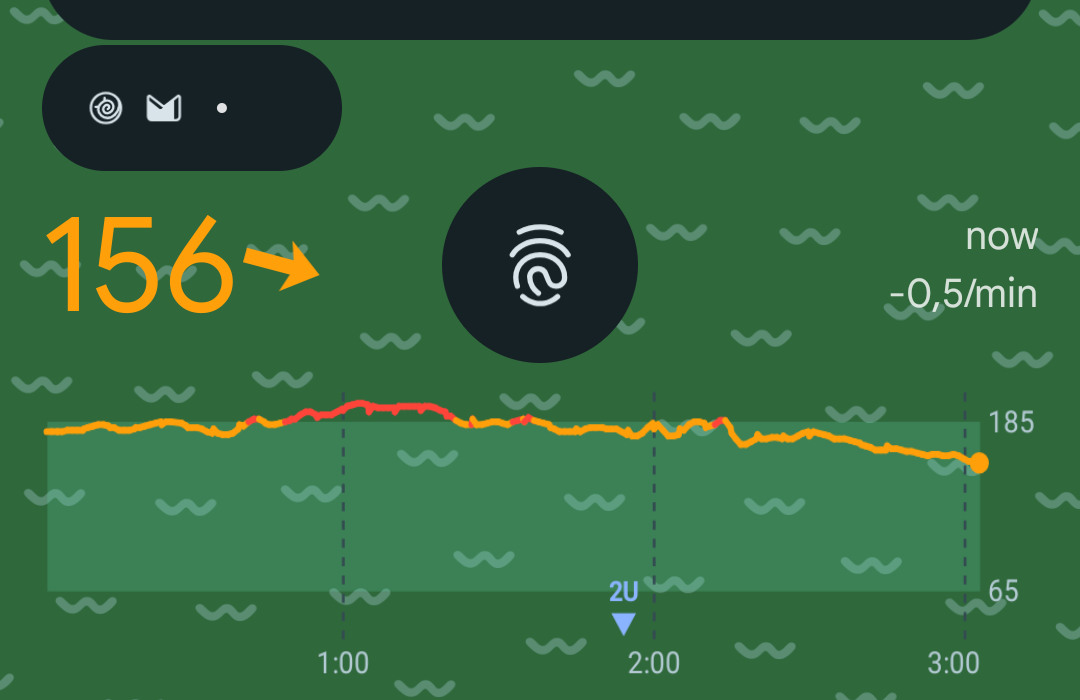
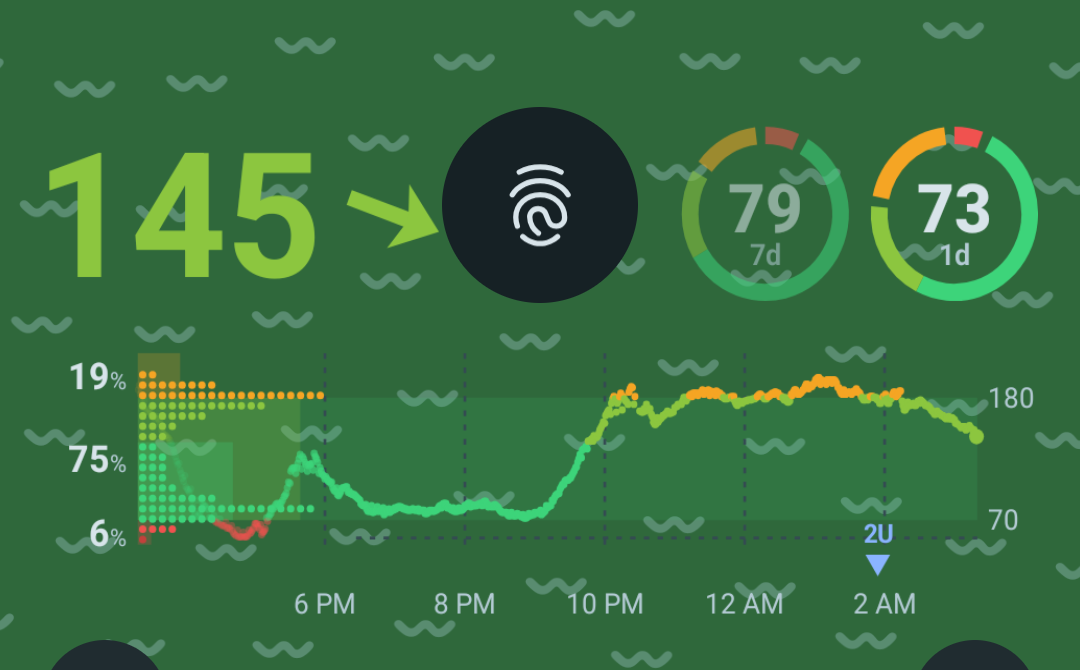
Investigation 17: report for the GlucoseCard layout and the shelf fix

diff --git a/docs/17-lockscreen-widget.md b/docs/17-lockscreen-widget.md
@@ -17,19 +17,21 @@ Sukrara as *Settings → Lock screen → Glucose on the lock screen* (on by defa
 
 ![Lock screen widget](img/17/lockscreen-widget.png)
 
-*The value is left of the fingerprint icon, age and rate are right of it, and the last 3 h graph (with treatments)
-is below. It has no card or background, so it floats on the wallpaper like the clock.*
+*Investigation 16's card, arranged around the fingerprint icon: the value and trend arrow on the left, the
+time-in-range rings (7 d, 1 d) on the right, and the chart with the distribution and treatments below. It has no
+background, so it floats on the wallpaper like the clock.*
 
 | What | How it was checked | Result |
 |---|---|---|
 | SystemUI can host our widget | `AppWidgetHost` in SystemUI's process; `bindAppWidgetIdIfAllowed` (SystemUI holds `BIND_APPWIDGET`) | `bound id 22`, `view added (id 22)`; the same id is reused after every SystemUI restart |
 | Placement from SystemUI's geometry | `AuthController.mUdfpsBounds` vs `dumpsys … AuthController` | `lock icon at Rect(441, 1666 - 639, 1864)` = `udfpsBounds=Rect(441, 1666 - 639, 1864)` |
 | Follows the lock screen | screenshots: lock screen / shade pulled down / bouncer / AOD | shown / hidden / dimmed with the lock screen / hidden |
+| Notifications don't cover it | `computeMaxKeyguardNotifications` args logged: `space=1131 shelfSpace=126` (stack top ≈ 538 → space ends at the icon's top 1666, the shelf may use 126 px more beside the icon) | before: the shelf covered the value; after (shelf must fit in `space`): 3 notifications + shelf, all above the widget |
 | Live data | Glance widget in Sukrara's normal widget pipeline | updates with every reading while the screen is on; one catch-up render on screen on |
 | Tap → treatment dialog over the lock screen | `input tap` on the value; `dumpsys activity activities` | dialog + keyboard shown; `KeyguardShowing=true … Occluded=true` (still locked); Cancel returns to the lock screen |
 | Fingerprint still unlocks | the user, then `input tap` on/next to the sensor and a 700 ms press | first build: **a finger on the sensor opened the dialog** (see below); fixed build: sensor, its column and long presses never open it |
 | Swipe up / long press still reach SystemUI | the widget sits *under* the Compose lock screen and only gets copies of taps | lock screen gestures unchanged |
-| Accessibility | `uiautomator dump` | "154", "steady", "now", "-0,4/min", "Glucose graph, last 3 hours" readable |
+| Accessibility | `uiautomator dump` | content description "Glucose 145 mg/dL, steady. Add treatment" |
 
 ![Treatment dialog over the lock screen](img/17/dialog-over-lockscreen.png)
 
@@ -51,20 +53,27 @@ works on the window root instead, in `hook/LockscreenWidgetHost.kt`:
    under-display sensor, SystemUI's `lock_icon_margin_bottom`). Bottom = top of the shortcuts
    (`keyguard_affordance_vertical_offset + keyguard_affordance_fixed_height`) − 8 dp. Sides = 16 dp, like the
    notifications. The icon's position is sent to the widget as **extra widget options**
-   (`sukrara.lockHoleLeft/Right/Bottom`, through `AppWidgetHostView.updateAppWidgetSize(extras, sizes)`), so the
-   Glance layout puts the value left of it and the age/rate right of it.
+   (`sukrara.lockHoleLeft/Right/Bottom`, through `AppWidgetHostView.updateAppWidgetSize(extras, sizes)`). The widget
+   draws one bitmap with investigation 16's pieces: `GlucoseCard` (value only) left of the icon, `TirRing`s right of
+   it, `GlucoseCard` (chart only) below, in the dark palette with a transparent background.
 4. **Follow the scene.** On every frame the window draws (`OnPreDrawListener`, so no cost while nothing moves) the
    module reads the scene interactor's transition state (`LegacySceneInteractorImpl.getTransitionState()`: `Idle` on
    `Scenes.Lockscreen` with no overlay = 1, a `Transition` from/to it = 1 − progress / progress) and sets the
    widget's alpha. The widget is hidden while the screen is off (AOD) and when the app turns the switch off.
-5. **Touches.** The lock screen keeps every gesture (swipe up to unlock, pull down the shade, long press to
+5. **Make room.** SystemUI sizes the lock screen stack in
+   `NotificationStackSizeCalculator.computeMaxKeyguardNotifications(stack, spaceForNotifications, spaceForShelf,
+   shelfHeight)`. The notifications' space ends at the lock icon's top, but the shelf (the pill with the overflow
+   icons) may hang *below* it, beside the icon, which is where our value is. While the widget is on, the hook passes
+   `spaceForNotifications − spaceForShelf`, so the shelf fits above the icon too. At worst, one more notification
+   goes into the shelf.
+6. **Touches.** The lock screen keeps every gesture (swipe up to unlock, pull down the shade, long press to
    customise). The hook on `SceneWindowRootView.dispatchTouchEvent` gives the widget a *copy* of a touch that starts
    on it. That copy is cancelled when the finger moves beyond the touch slop or stays down longer than the long-press
    timeout. Touches in the fingerprint icon's column (± 24 dp) never reach the widget.
 
 ### The fingerprint bug (fixed before the user's second test)
 
-The first build opened the treatment dialog when the user put a finger on the sensor. The filter in step 5 was
+The first build opened the treatment dialog when the user put a finger on the sensor. The filter in step 6 was
 there, but the window *also* delivered touches to the widget the normal way: `SceneWindowRootView` is a
 `FrameLayout`, and when the Compose layer on top doesn't consume a touch (empty space, the sensor), the event falls
 through to the next child, which is our view. The fix is a `GuardedView` (an `AppWidgetHostView` subclass created by
@@ -99,7 +108,8 @@ dialog shows nothing beyond what the lock screen already shows. The switch turns
 | Added | Where |
 |---|---|
 | Lock screen widget hosted by the LSPosed module, around the fingerprint icon | `hook/LockscreenWidgetHost.kt`, hooks in `hook/SystemUiHook.kt` (`hookLockscreenWidget`) |
-| Keyguard-only Glance widget with the lock icon gap | `widgets/LockscreenWidget.kt`, `res/xml/widget_lockscreen.xml` |
+| Keyguard-only Glance widget with the lock icon gap (investigation 16's value, rings and chart) | `widgets/LockscreenWidget.kt`, `res/xml/widget_lockscreen.xml` |
+| Notification shelf kept above the lock icon while the widget is on | `hook/SystemUiHook.kt` (`computeMaxKeyguardNotifications`) |
 | Switch *Settings → Lock screen → Glucose on the lock screen* (`lockWidget`, default on; DebugReceiver `--ez lockWidget`) | `features/Features.kt`, `ui/WearerScreens.kt`, sent to SystemUI with the status-bar broadcast (`status/RootStatusBar.kt`) |
 | Treatment dialog over the lock screen (manifest `showWhenLocked`; "Open Sukrara" asks to unlock) | `AndroidManifest.xml`, `ui/QuickTreatmentActivity.kt` |
 | Quick Settings tile "Add treatment" with the current value | `ui/TreatmentTile.kt` |
@@ -109,24 +119,23 @@ dialog shows nothing beyond what the lock screen already shows. The switch turns
 | Drawing our own view in SystemUI (like the status-bar hook) | Hosting the real widget reuses the widget pipeline, Glance layout and tap handling, and stays in sync with the home-screen widgets |
 | Putting the widget *above* the Compose lock screen | It would cover the fingerprint icon and take swipe gestures |
 | Delivering touches through the normal view tree | Taps on the fingerprint sensor reached the widget (the bug above) |
-| Shrinking the notification stack to make room | Not needed: SystemUI already stops the stack above the fingerprint icon |
+| Moving the widget down when the notification shelf hangs beside the lock icon | No room below (shortcuts); making the shelf fit above the icon is cleaner (step 5) |
 | Lock screen wallpaper, Notes-role shortcut | Not interactive / takes over the user's wallpaper or notes app (table above) |
 
 ## Code
 
 - `spikes/showcase-android/app/src/main/kotlin/app/mauri/sukrara/hook/LockscreenWidgetHost.kt` — host, placement,
   scene alpha, filtered touches.
-- `…/hook/SystemUiHook.kt` — captures `LegacySceneInteractorImpl` and `AuthController` when Dagger creates them, and
-  hooks `WindowRootView.onAttachedToWindow` and `SceneWindowRootView.dispatchTouchEvent`.
-- `…/widgets/LockscreenWidget.kt` — the layout (dark palette, no background, `LocalAppWidgetOptions` for the gap).
+- `…/hook/SystemUiHook.kt` — captures `LegacySceneInteractorImpl` and `AuthController` when Dagger creates them,
+  hooks `WindowRootView.onAttachedToWindow`, `SceneWindowRootView.dispatchTouchEvent` and
+  `NotificationStackSizeCalculator.computeMaxKeyguardNotifications`.
+- `…/widgets/LockscreenWidget.kt` — the drawing (dark palette, no background, `LocalAppWidgetOptions` for the gap).
 
 Safety: as with investigation 05, every hook body is wrapped, the kill switch `sukrara_hook_disabled` disables this
 too, and SystemUI was only restarted by killing it (`hook-safety.sh arm` during the session).
 
 ## Open
 
-- The graph uses `GraphRenderer`; investigation 16 replaces it with `GlucoseCard`. The lock screen widget moves to
-  the new renderer when that lands.
 - Followers: the widget shows whatever the phone's role feeds the widgets (wearer or followed person), but the switch
   is only in the wearer's settings (followers keep the default, on).
 - Other OEM lock screens (Samsung One UI etc.) have different SystemUI classes: the hooks log and do nothing there.
